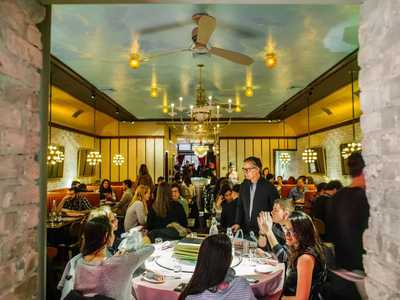
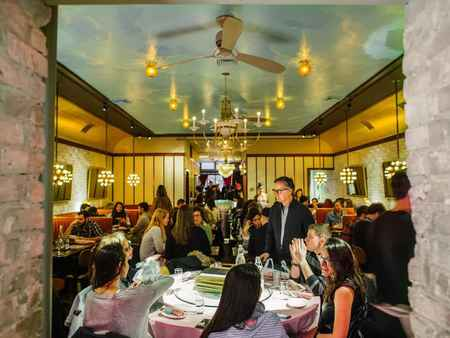
load more images to be able to have three different sizes

diff --git a/js/dbhelper.js b/js/dbhelper.js
@@ -151,7 +151,7 @@ class DBHelper {
    */
   static imageUrlForRestaurant(restaurant) {
       var photograph = restaurant.photograph.split(".");
-    return (`/images/${photograph[0]}-big2x.jpg`);
+    return (`/images/${photograph[0]}-middle2x.jpg`);
   }
 
     /**
@@ -159,7 +159,7 @@ class DBHelper {
      */
   static imageSrcSetsForRestaurant(restaurant) {
         var photograph = restaurant.photograph.split(".");
-        return (`/images/${photograph[0]}-big2x.jpg 800w, /images/${photograph[0]}-small1x.jpg 400w`);
+        return (` /images/${photograph[0]}-small1x.jpg 450w,  /images/${photograph[0]}-middle2x.jpg 600w, /images/${photograph[0]}-big2x.jpg 800w`);
     }
 
   /**

diff --git a/Gruntfile.js b/Gruntfile.js
@@ -15,8 +15,8 @@ module.exports = function(grunt) {
           engine: 'im',
           sizes: [{
               name: "small",
-              width: 400,
-              quality: 50,
+              width: 450,
+              quality: 40,
               suffix: "1x"
             /*
             Change these:
@@ -25,6 +25,11 @@ module.exports = function(grunt) {
             suffix: ,
             quality:
             */
+          },{
+              name: "middle",
+              width: 600,
+              quality: 70,
+              suffix: "2x"
           }, {
             name: "big",
               width: 800,

diff --git a/js/main.js b/js/main.js
@@ -297,7 +297,7 @@ createRestaurantHTML = (restaurant) => {
         image.setAttribute("srcset", DBHelper.imageSrcSetsForRestaurant(restaurant));
         image.src = DBHelper.imageUrlForRestaurant(restaurant);
         image.setAttribute("alt", restaurant.name);
-        image.setAttribute("sizes", "(max-width: 450px) 100vw, (min-width: 451px) 50vw");
+        //image.setAttribute("sizes", "(max-width: 450px) 100vw, (min-width: 451px) and (max-width:600px) 100vw, (min-width: 601px) 50vw");
         li.append(image);
 
         const name = document.createElement('h2');

diff --git a/index.html b/index.html
@@ -45,7 +45,7 @@
     Copyright (c) 2017 <a href="/"><strong>Restaurant Reviews</strong></a> All Rights Reserved.
   </footer>
 
- <!-- <script>
+ <!--<script>
       if ('serviceWorker' in navigator) {
           window.addEventListener('load', function () {
               navigator.serviceWorker.register('/sw.js').then(function (registered) {
@@ -55,7 +55,7 @@
               })
           });
       }
-  </script> -->
+  </script>-->
 </body>
 
 </html>
